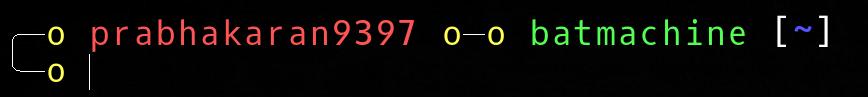
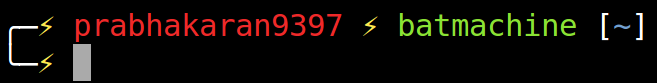
flash symbol added

Changed region(s): [[0.0, 0.1446, 1.0, 0.988]]

diff --git a/README.md b/README.md
@@ -11,4 +11,4 @@
 
 ![Screenshot](MyZsh.png "Screenshot 1")
 
-Note: Supports Current directoty view, Git Branch view, Ruby version view.
+Note: Supports Current directoty view, Git Branch view.
